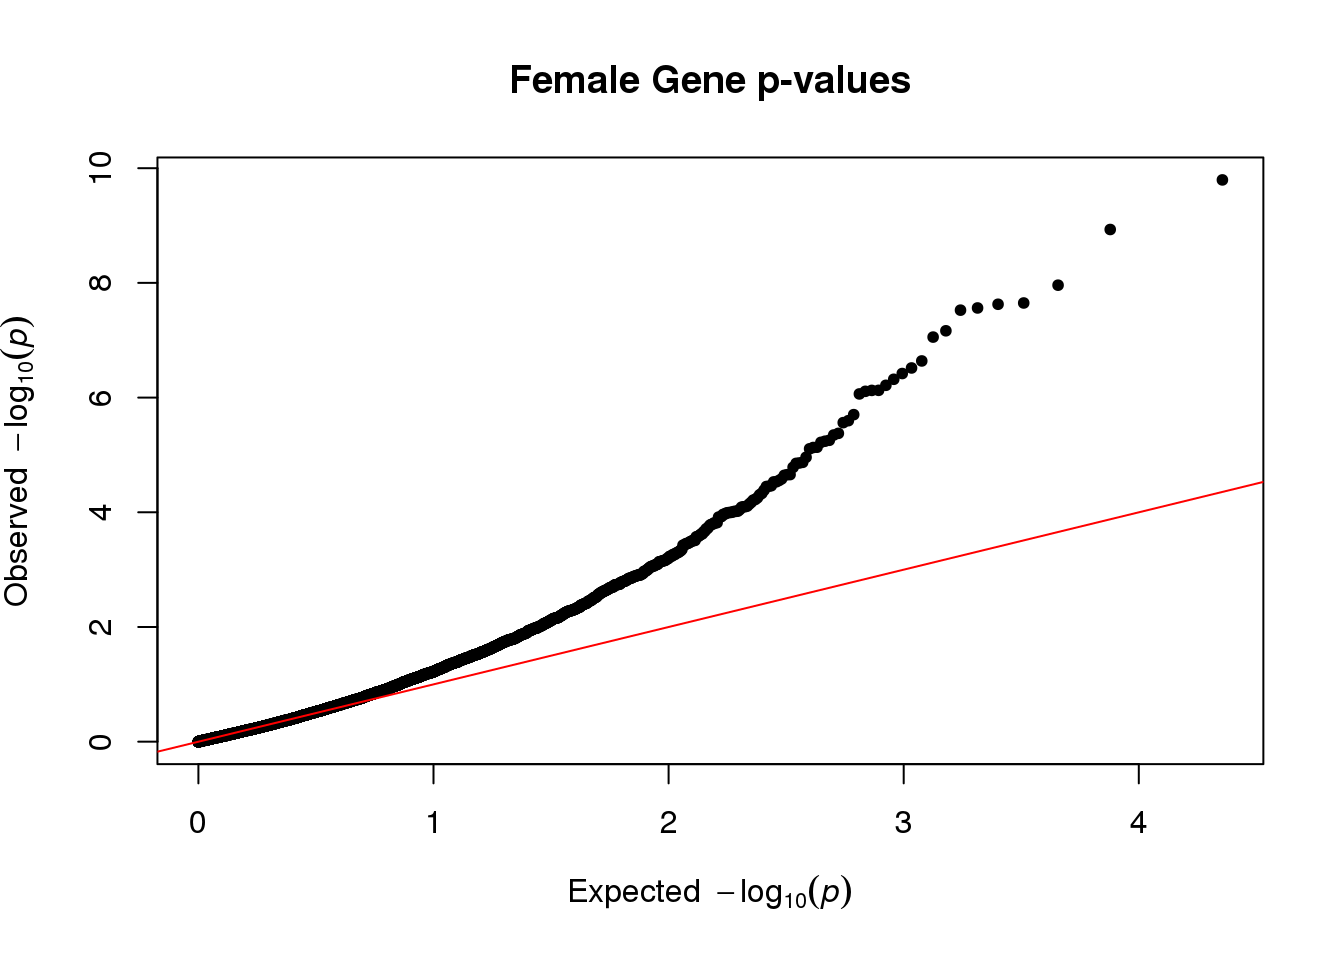
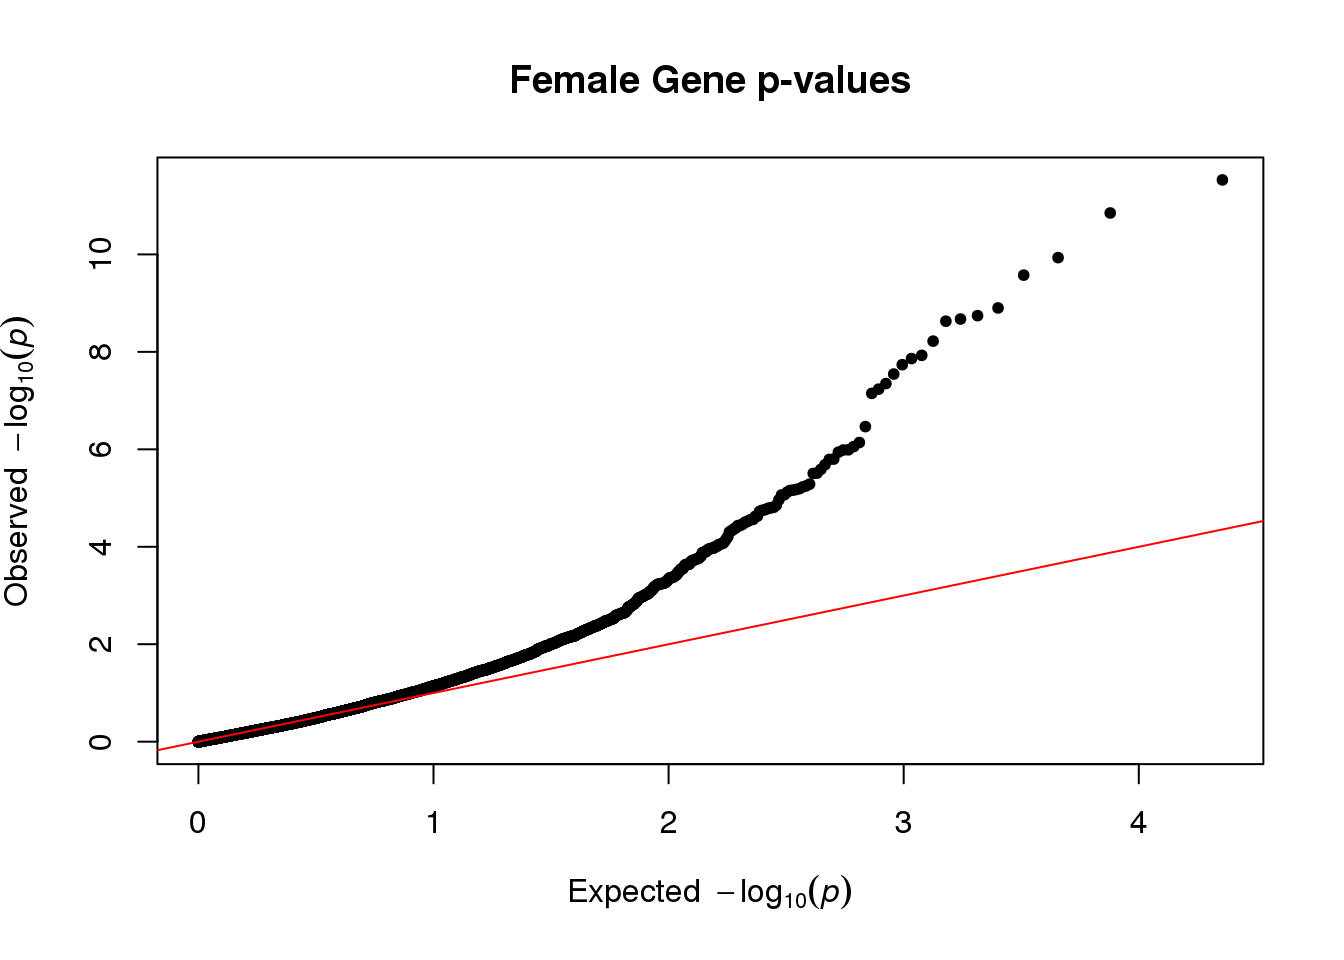
Build site.

diff --git a/docs/multiReg.html b/docs/multiReg.html
@@ -551,15 +551,15 @@ project makes it easier to run your code on other machines.</p>
 <div class="panel panel-default">
 <div class="panel-heading">
 <p class="panel-title">
-<a data-toggle="collapse" data-parent="#workflowr-checks" href="#strongRepositoryversionstrongahrefhttpsgithubcomnklimkodgrpstarvetree30960d841f3a8ee57d0501c50aabe8c5e30eb3f1targetblank30960d8a">
+<a data-toggle="collapse" data-parent="#workflowr-checks" href="#strongRepositoryversionstrongahrefhttpsgithubcomnklimkodgrpstarvetree4a73a00e3c14c7cc1d3d14ced671f2b90d869402targetblank4a73a00a">
 <span class="glyphicon glyphicon-ok text-success"
 aria-hidden="true"></span> <strong>Repository version:</strong>
-<a href="https://github.com/nklimko/dgrp-starve/tree/30960d841f3a8ee57d0501c50aabe8c5e30eb3f1" target="_blank">30960d8</a>
+<a href="https://github.com/nklimko/dgrp-starve/tree/4a73a00e3c14c7cc1d3d14ced671f2b90d869402" target="_blank">4a73a00</a>
 </a>
 </p>
 </div>
 <div
[2 lines of base64/hex data omitted]
 class="panel-collapse collapse">
 <div class="panel-body">
 <p>
@@ -569,7 +569,7 @@ reproducibility.
 </p>
 <p>
 The results in this page were generated with repository version
-<a href="https://github.com/nklimko/dgrp-starve/tree/30960d841f3a8ee57d0501c50aabe8c5e30eb3f1" target="_blank">30960d8</a>.
+<a href="https://github.com/nklimko/dgrp-starve/tree/4a73a00e3c14c7cc1d3d14ced671f2b90d869402" target="_blank">4a73a00</a>.
 See the <em>Past versions</em> tab to see a history of the changes made
 to the R Markdown and HTML files.
 </p>
@@ -670,6 +670,40 @@ Message
 </tr>
 </thead>
 <tbody>
+<tr>
+<td>
+Rmd
+</td>
+<td>
+<a href="https://github.com/nklimko/dgrp-starve/blob/4a73a00e3c14c7cc1d3d14ced671f2b90d869402/analysis/multiReg.Rmd" target="_blank">4a73a00</a>
+</td>
+<td>
+nklimko
+</td>
+<td>
+2022-12-21
+</td>
+<td>
+wflow_publish("analysis/multiReg.Rmd")
+</td>
+</tr>
+<tr>
+<td>
+html
+</td>
+<td>
+<a href="https://rawcdn.githack.com/nklimko/dgrp-starve/e9e8b4436867cd427bb3ae66c36cd4f5cf8a8514/docs/multiReg.html" target="_blank">e9e8b44</a>
+</td>
+<td>
+nklimko
+</td>
+<td>
+2022-12-21
+</td>
+<td>
+Build site.
+</td>
+</tr>
 <tr>
 <td>
 Rmd
@@ -829,7 +863,7 @@ Y &lt;- as.matrix(fMeans[,3:11340], row.names=1)
 n &lt;- dim(Y)[1]
 p &lt;- dim(Y)[2]
 
-p_effect &lt;- 525
+p_effect &lt;- 260
 #p_effect &lt;- round(p / 15)
 #400, 250 maxit
 
@@ -838,6 +872,7 @@ if(TRUE){
 
 #error is seeded rnorm, number of rows(lines)
 e &lt;- rnorm(n, 1, 0.25)
+#e &lt;- rnorm(n)
 
 # add gene names to p val list
 geneNames &lt;- colnames(fMeans)[3:11340]
@@ -881,20 +916,23 @@ TRM &lt;- tcrossprod(W)/ncol(W)
 
 ###Fit mixed model
 fit &lt;- greml(y = y, X = mu, GRM = list(TRM), verbose = TRUE, maxit = 100)</code></pre>
-<pre><code>[1] &quot;Iteration:&quot; &quot;1&quot;          &quot;Theta:&quot;     &quot;77.75&quot;      &quot;76.73&quot;     
-[1] &quot;Iteration:&quot; &quot;2&quot;          &quot;Theta:&quot;     &quot;156.41&quot;     &quot;150.3&quot;     
-[1] &quot;Iteration:&quot; &quot;3&quot;          &quot;Theta:&quot;     &quot;316.38&quot;     &quot;288.18&quot;    
-[1] &quot;Iteration:&quot; &quot;4&quot;          &quot;Theta:&quot;     &quot;646.63&quot;     &quot;528.44&quot;    
-[1] &quot;Iteration:&quot; &quot;5&quot;          &quot;Theta:&quot;     &quot;1345.72&quot;    &quot;878.48&quot;    
-[1] &quot;Iteration:&quot; &quot;6&quot;          &quot;Theta:&quot;     &quot;2877.83&quot;    &quot;1140.34&quot;   
-[1] &quot;Iteration:&quot; &quot;7&quot;          &quot;Theta:&quot;     &quot;6319.22&quot;    &quot;461.02&quot;    
-[1] &quot;Iteration:&quot; &quot;8&quot;          &quot;Theta:&quot;     &quot;13489.93&quot;   &quot;0&quot;         
-[1] &quot;Iteration:&quot; &quot;9&quot;          &quot;Theta:&quot;     &quot;28365.08&quot;   &quot;0&quot;         
-[1] &quot;Iteration:&quot; &quot;10&quot;         &quot;Theta:&quot;     &quot;54374.48&quot;   &quot;0&quot;         
-[1] &quot;Iteration:&quot; &quot;11&quot;         &quot;Theta:&quot;     &quot;103820.72&quot;  &quot;0&quot;         
-[1] &quot;Iteration:&quot; &quot;12&quot;         &quot;Theta:&quot;     &quot;0&quot;          &quot;0&quot;         
-[1] &quot;Iteration:&quot; &quot;13&quot;         &quot;Theta:&quot;     &quot;0&quot;          &quot;0&quot;         
-[1] &quot;Converged at Iteration:&quot; &quot;13&quot;                     
+<pre><code>[1] &quot;Iteration:&quot; &quot;1&quot;          &quot;Theta:&quot;     &quot;55.73&quot;      &quot;54.66&quot;     
+[1] &quot;Iteration:&quot; &quot;2&quot;          &quot;Theta:&quot;     &quot;112.48&quot;     &quot;106.07&quot;    
+[1] &quot;Iteration:&quot; &quot;3&quot;          &quot;Theta:&quot;     &quot;228.94&quot;     &quot;199.48&quot;    
+[1] &quot;Iteration:&quot; &quot;4&quot;          &quot;Theta:&quot;     &quot;473.32&quot;     &quot;350.66&quot;    
+[1] &quot;Iteration:&quot; &quot;5&quot;          &quot;Theta:&quot;     &quot;1004.25&quot;    &quot;526.12&quot;    
+[1] &quot;Iteration:&quot; &quot;6&quot;          &quot;Theta:&quot;     &quot;2204.95&quot;    &quot;479.76&quot;    
+[1] &quot;Iteration:&quot; &quot;7&quot;          &quot;Theta:&quot;     &quot;4915.96&quot;    &quot;0&quot;         
+[1] &quot;Iteration:&quot; &quot;8&quot;          &quot;Theta:&quot;     &quot;10576.46&quot;   &quot;0&quot;         
+[1] &quot;Iteration:&quot; &quot;9&quot;          &quot;Theta:&quot;     &quot;24499.85&quot;   &quot;0&quot;         
+[1] &quot;Iteration:&quot; &quot;10&quot;         &quot;Theta:&quot;     &quot;33377.59&quot;   &quot;0&quot;         
+[1] &quot;Iteration:&quot; &quot;11&quot;         &quot;Theta:&quot;     &quot;64233.75&quot;   &quot;0&quot;         
+[1] &quot;Iteration:&quot; &quot;12&quot;         &quot;Theta:&quot;     &quot;21974.94&quot;   &quot;0&quot;         
+[1] &quot;Iteration:&quot; &quot;13&quot;         &quot;Theta:&quot;     &quot;54027.91&quot;   &quot;0&quot;         
+[1] &quot;Iteration:&quot; &quot;14&quot;         &quot;Theta:&quot;     &quot;79643.02&quot;   &quot;0&quot;         
+[1] &quot;Iteration:&quot; &quot;15&quot;         &quot;Theta:&quot;     &quot;0&quot;          &quot;0&quot;         
+[1] &quot;Iteration:&quot; &quot;16&quot;         &quot;Theta:&quot;     &quot;0&quot;          &quot;0&quot;         
+[1] &quot;Converged at Iteration:&quot; &quot;16&quot;                     
 [3] &quot;Theta:&quot;                  &quot;0&quot;                      
 [5] &quot;0&quot;                      </code></pre>
 <pre class="r"><code>stat &lt;- glma(fit = fit, W = W)
@@ -926,6 +964,17 @@ Date
 <tbody>
 <tr>
 <td>
+<a href="https://github.com/nklimko/dgrp-starve/blob/e9e8b4436867cd427bb3ae66c36cd4f5cf8a8514/docs/figure/multiReg.Rmd/f-qq-1.png" target="_blank">e9e8b44</a>
+</td>
+<td>
+nklimko
+</td>
+<td>
+2022-12-21
+</td>
+</tr>
+<tr>
+<td>
 <a href="https://github.com/nklimko/dgrp-starve/blob/177257f4e1ff0f4c8afbf6ce2fbf6c0170d0f098/docs/figure/multiReg.Rmd/f-qq-1.png" target="_blank">177257f</a>
 </td>
 <td>
@@ -942,7 +991,9 @@ nklimko
 </div>
 <div id="male" class="section level1">
 <h1>Male</h1>
-<pre class="r"><code>#read in p values
+<pre class="r"><code>rm(list=ls())
+
+#read in p values
 mReg &lt;- fread(&quot;data/mRegress.txt&quot;)
 
 #read in expression data
@@ -983,7 +1034,7 @@ b &lt;- mFin[,b]
 
 #error is seeded rnorm, number of rows(lines)
 e &lt;- rnorm(n, 1, 0.25)
-e &lt;- rnorm(n)
+#e &lt;- rnorm(n)
 
 #matrix multiplication of the data and p
 y &lt;- drop(Y%*%b) + e
@@ -998,34 +1049,39 @@ TRM &lt;- tcrossprod(W)/ncol(W)
 
 ###Fit mixed model
 fit &lt;- greml(y = y, X = mu, GRM = list(TRM), verbose = TRUE)</code></pre>
-<pre><code>[1] &quot;Iteration:&quot; &quot;1&quot;          &quot;Theta:&quot;     &quot;90.68&quot;      &quot;88.25&quot;     
-[1] &quot;Iteration:&quot; &quot;2&quot;          &quot;Theta:&quot;     &quot;182.97&quot;     &quot;168.51&quot;    
-[1] &quot;Iteration:&quot; &quot;3&quot;          &quot;Theta:&quot;     &quot;372.25&quot;     &quot;306.09&quot;    
-[1] &quot;Iteration:&quot; &quot;4&quot;          &quot;Theta:&quot;     &quot;768.89&quot;     &quot;496.35&quot;    
-[1] &quot;Iteration:&quot; &quot;5&quot;          &quot;Theta:&quot;     &quot;1627.71&quot;    &quot;588.77&quot;    
-[1] &quot;Iteration:&quot; &quot;6&quot;          &quot;Theta:&quot;     &quot;3543.59&quot;    &quot;0&quot;         
-[1] &quot;Iteration:&quot; &quot;7&quot;          &quot;Theta:&quot;     &quot;7530.41&quot;    &quot;0&quot;         
-[1] &quot;Iteration:&quot; &quot;8&quot;          &quot;Theta:&quot;     &quot;16244.61&quot;   &quot;0&quot;         
-[1] &quot;Iteration:&quot; &quot;9&quot;          &quot;Theta:&quot;     &quot;38953.89&quot;   &quot;0&quot;         
-[1] &quot;Iteration:&quot; &quot;10&quot;         &quot;Theta:&quot;     &quot;0&quot;          &quot;95715.4&quot;   
-[1] &quot;Iteration:&quot; &quot;11&quot;         &quot;Theta:&quot;     &quot;102913.01&quot;  &quot;0&quot;         
-[1] &quot;Iteration:&quot;  &quot;12&quot;          &quot;Theta:&quot;      &quot;22768525.08&quot; &quot;0&quot;          
-[1] &quot;Iteration:&quot;  &quot;13&quot;          &quot;Theta:&quot;      &quot;21283491.67&quot; &quot;1559083.85&quot; 
-[1] &quot;Iteration:&quot;     &quot;14&quot;             &quot;Theta:&quot;         &quot;24722830522.02&quot;
-[5] &quot;0&quot;             
-[1] &quot;Iteration:&quot;     &quot;15&quot;             &quot;Theta:&quot;         &quot;25111015213.06&quot;
-[5] &quot;0&quot;             
-[1] &quot;Iteration:&quot;     &quot;16&quot;             &quot;Theta:&quot;         &quot;0&quot;             
-[5] &quot;26623728569.59&quot;
-[1] &quot;Iteration:&quot;       &quot;17&quot;               &quot;Theta:&quot;           &quot;7962407750619981&quot;
-[5] &quot;0&quot;               
-[1] &quot;Iteration:&quot;           &quot;18&quot;                   &quot;Theta:&quot;              
-[4] &quot;5.69042228882703e+21&quot; &quot;0&quot;                   
-[1] &quot;Iteration:&quot;           &quot;19&quot;                   &quot;Theta:&quot;              
-[4] &quot;1.31080038812836e+33&quot; &quot;0&quot;                   
-[1] &quot;Iteration:&quot; &quot;20&quot;         &quot;Theta:&quot;     &quot;0&quot;          &quot;0&quot;         
-[1] &quot;Iteration:&quot; &quot;21&quot;         &quot;Theta:&quot;     &quot;0&quot;          &quot;0&quot;         
-[1] &quot;Converged at Iteration:&quot; &quot;21&quot;                     
+<pre><code>[1] &quot;Iteration:&quot; &quot;1&quot;          &quot;Theta:&quot;     &quot;91.15&quot;      &quot;88.84&quot;     
+[1] &quot;Iteration:&quot; &quot;2&quot;          &quot;Theta:&quot;     &quot;183.8&quot;      &quot;170.11&quot;    
+[1] &quot;Iteration:&quot; &quot;3&quot;          &quot;Theta:&quot;     &quot;373.54&quot;     &quot;310.86&quot;    
+[1] &quot;Iteration:&quot; &quot;4&quot;          &quot;Theta:&quot;     &quot;769.98&quot;     &quot;511.57&quot;    
+[1] &quot;Iteration:&quot; &quot;5&quot;          &quot;Theta:&quot;     &quot;1624.31&quot;    &quot;637.37&quot;    
+[1] &quot;Iteration:&quot; &quot;6&quot;          &quot;Theta:&quot;     &quot;3520.08&quot;    &quot;117.94&quot;    
+[1] &quot;Iteration:&quot; &quot;7&quot;          &quot;Theta:&quot;     &quot;7519.51&quot;    &quot;0&quot;         
+[1] &quot;Iteration:&quot; &quot;8&quot;          &quot;Theta:&quot;     &quot;16410.1&quot;    &quot;0&quot;         
+[1] &quot;Iteration:&quot; &quot;9&quot;          &quot;Theta:&quot;     &quot;31164.21&quot;   &quot;0&quot;         
+[1] &quot;Iteration:&quot; &quot;10&quot;         &quot;Theta:&quot;     &quot;60969.74&quot;   &quot;0&quot;         
+[1] &quot;Iteration:&quot; &quot;11&quot;         &quot;Theta:&quot;     &quot;8515.65&quot;    &quot;0&quot;         
+[1] &quot;Iteration:&quot; &quot;12&quot;         &quot;Theta:&quot;     &quot;19284.7&quot;    &quot;0&quot;         
+[1] &quot;Iteration:&quot; &quot;13&quot;         &quot;Theta:&quot;     &quot;47341.63&quot;   &quot;0&quot;         
+[1] &quot;Iteration:&quot; &quot;14&quot;         &quot;Theta:&quot;     &quot;95237.84&quot;   &quot;0&quot;         
+[1] &quot;Iteration:&quot; &quot;15&quot;         &quot;Theta:&quot;     &quot;45481.58&quot;   &quot;0&quot;         
+[1] &quot;Iteration:&quot; &quot;16&quot;         &quot;Theta:&quot;     &quot;109238.51&quot;  &quot;0&quot;         
+[1] &quot;Iteration:&quot; &quot;17&quot;         &quot;Theta:&quot;     &quot;208252.63&quot;  &quot;0&quot;         
+[1] &quot;Iteration:&quot; &quot;18&quot;         &quot;Theta:&quot;     &quot;92623.61&quot;   &quot;0&quot;         
+[1] &quot;Iteration:&quot; &quot;19&quot;         &quot;Theta:&quot;     &quot;0&quot;          &quot;68299.02&quot;  
+[1] &quot;Iteration:&quot; &quot;20&quot;         &quot;Theta:&quot;     &quot;50566.26&quot;   &quot;0&quot;         
+[1] &quot;Iteration:&quot; &quot;21&quot;         &quot;Theta:&quot;     &quot;63615.84&quot;   &quot;0&quot;         
+[1] &quot;Iteration:&quot; &quot;22&quot;         &quot;Theta:&quot;     &quot;143982.95&quot;  &quot;0&quot;         
+[1] &quot;Iteration:&quot; &quot;23&quot;         &quot;Theta:&quot;     &quot;145265.04&quot;  &quot;0&quot;         
+[1] &quot;Iteration:&quot; &quot;24&quot;         &quot;Theta:&quot;     &quot;0&quot;          &quot;5808.2&quot;    
+[1] &quot;Iteration:&quot; &quot;25&quot;         &quot;Theta:&quot;     &quot;365.69&quot;     &quot;7491.58&quot;   
+[1] &quot;Iteration:&quot; &quot;26&quot;         &quot;Theta:&quot;     &quot;1580.34&quot;    &quot;6062.89&quot;   
+[1] &quot;Iteration:&quot; &quot;27&quot;         &quot;Theta:&quot;     &quot;4522.6&quot;     &quot;1158.62&quot;   
+[1] &quot;Iteration:&quot; &quot;28&quot;         &quot;Theta:&quot;     &quot;10692.21&quot;   &quot;0&quot;         
+[1] &quot;Iteration:&quot; &quot;29&quot;         &quot;Theta:&quot;     &quot;24363.01&quot;   &quot;0&quot;         
+[1] &quot;Iteration:&quot; &quot;30&quot;         &quot;Theta:&quot;     &quot;52929.41&quot;   &quot;0&quot;         
+[1] &quot;Iteration:&quot; &quot;31&quot;         &quot;Theta:&quot;     &quot;0&quot;          &quot;0&quot;         
+[1] &quot;Iteration:&quot; &quot;32&quot;         &quot;Theta:&quot;     &quot;0&quot;          &quot;0&quot;         
+[1] &quot;Converged at Iteration:&quot; &quot;32&quot;                     
 [3] &quot;Theta:&quot;                  &quot;0&quot;                      
 [5] &quot;0&quot;                      </code></pre>
 <pre class="r"><code>stat &lt;- glma(fit = fit, W = W)
@@ -1055,6 +1111,17 @@ Date
 </tr>
 </thead>
 <tbody>
+<tr>
+<td>
+<a href="https://github.com/nklimko/dgrp-starve/blob/e9e8b4436867cd427bb3ae66c36cd4f5cf8a8514/docs/figure/multiReg.Rmd/m-qq-1.png" target="_blank">e9e8b44</a>
+</td>
+<td>
+nklimko
+</td>
+<td>
+2022-12-21
+</td>
+</tr>
 <tr>
 <td>
 <a href="https://github.com/nklimko/dgrp-starve/blob/177257f4e1ff0f4c8afbf6ce2fbf6c0170d0f098/docs/figure/multiReg.Rmd/m-qq-1.png" target="_blank">177257f</a>
